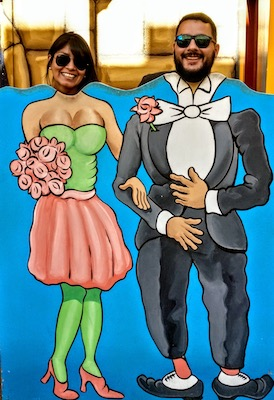
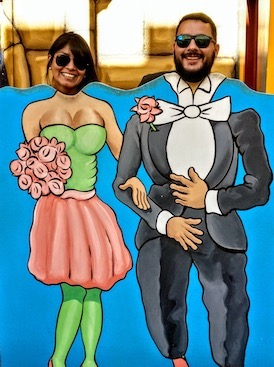
Resizing images

diff --git a/src/app/invitation-details/invitation-details.component.html b/src/app/invitation-details/invitation-details.component.html
@@ -202,7 +202,7 @@
       <div class="row">
         <div class="col-md-8 col-md-offset-2 text-center fh5co-heading animate-box">
           <h2>Selfie time!</h2>
-          <p>En todo este tiempo hemos vivido </p>
+          <p>... y este es nuestro propio caralibro... o facebook</p>
         </div>
       </div>
       <div class="row row-bottom-padded-md">
